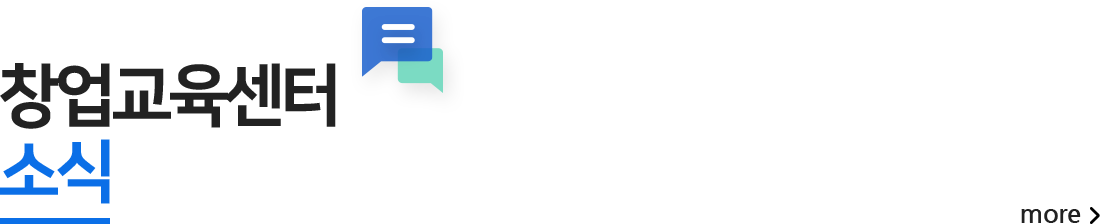
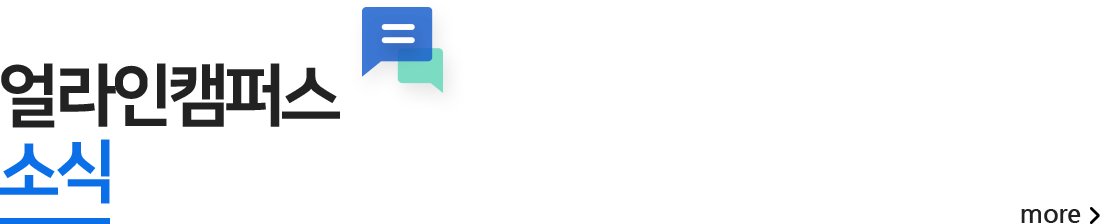
모바일 페이지 수정

Changed region(s): [[0.0, 0.2812, 0.3091, 0.5938]]

diff --git a/css/desktop.css b/css/desktop.css
@@ -598,8 +598,8 @@ input[type="range"]::-ms-fill-upper {
   background-position: center;
   background-image: url(../images/sitemap-close.png);
   background-size: cover;
-  width: 26px;
-  padding-top: calc(55 / 54 * 13px);
+  width: 15px;
+  padding-top: 14px;
   margin-top: 30px;
   margin-left: 30px;
 }
@@ -623,14 +623,15 @@ input[type="range"]::-ms-fill-upper {
 }
 
 .site-map .nav {
-  width: 370px;
+  width: 300px;
   margin: auto;
-  margin-top: 56px;
-  padding: 30px 40px;
+  margin-top: 45px;
+  padding: 30px 20px;
+  font-size: 12px;
 }
 
 .site-map .bg {
-  width: calc(100% - 400px);
+  width: calc(100% - 350px);
   background-color: #333;
   opacity: 0.3;
 }
@@ -645,8 +646,8 @@ input[type="range"]::-ms-fill-upper {
   background-position: center;
   background-repeat: no-repeat;
   background-size: cover;
-  width: calc(210px / 2);
-  height: 23px;
+  width: 93px;
+  height: 20px;
 }
 
 .site-map .nav > li:nth-child(2) > a {
@@ -654,8 +655,8 @@ input[type="range"]::-ms-fill-upper {
   background-position: center;
   background-repeat: no-repeat;
   background-size: cover;
-  width: calc(210px / 2);
-  height: 23px;
+  width: 93px;
+  height: 21px;
 }
 
 .site-map .nav > li:nth-child(3) > a {
@@ -663,8 +664,8 @@ input[type="range"]::-ms-fill-upper {
   background-position: center;
   background-repeat: no-repeat;
   background-size: cover;
-  width: calc(210px / 2);
-  height: 23px;
+  width: 92px;
+  height: 20px;
 }
 
 .site-map .nav > li:nth-child(4) > a {
@@ -672,8 +673,8 @@ input[type="range"]::-ms-fill-upper {
   background-position: center;
   background-repeat: no-repeat;
   background-size: cover;
-  width: calc(130px / 2);
-  height: 23px;
+  width: 63px;
+  height: 22px;
 }
 
 .site-map .nav > li:nth-child(5) > a {
@@ -681,8 +682,8 @@ input[type="range"]::-ms-fill-upper {
   background-position: center;
   background-repeat: no-repeat;
   background-size: cover;
-  width: calc(248px / 2);
-  height: 23px;
+  width: 123px;
+  height: 21px;
 }
 
 .site-map .nav > li > a ~ ul {
@@ -705,8 +706,8 @@ input[type="range"]::-ms-fill-upper {
   background-position: left;
   background-repeat: no-repeat;
   background-size: cover;
-  width: calc(107px / 2);
-  height: calc(107px / 2);
+  width: calc(107px / 3);
+  height: calc(107px / 3);
 }
 
 .site-map .nav > li > a ~ ul > li > a > span:nth-child(2) {
@@ -1029,6 +1030,7 @@ input[type="range"]::-ms-fill-upper {
 .notice .notice-title {
   float: left;
   width: 316px;
+  padding-right: 20px;
 }
 
 .notice .notice-title > a {
@@ -1785,7 +1787,7 @@ input[type="range"]::-ms-fill-upper {
 }
 
 .site-content .filter-list .btn-wrapper {
-  padding: 27px 20px 20px 5px;
+  padding: 27px 10px 20px 5px;
 }
 
 .site-content .filter-list .btn-wrapper .btn-reset {
@@ -1806,7 +1808,7 @@ input[type="range"]::-ms-fill-upper {
 }
 
 .site-content .filter-list .list-item {
-  padding: 23px 0px 12px 20px;
+  padding: 23px 0px 12px 10px;
 }
 
 .site-content .filter-list .list-item > li {
@@ -2527,6 +2529,8 @@ input[type="range"]::-ms-fill-upper {
   padding: 26px 0px 19px 24px;
   margin: 20px 0px;
   border-radius: 13px;
+  display: flex;
+  align-items: center;
 }
 
 .page-lec-qna .site-content .content .content-sub .sub-image {
@@ -2536,12 +2540,11 @@ input[type="range"]::-ms-fill-upper {
   background-position: center;
   width: 60px;
   height: 60px;
-  float: left;
   margin: 18px 16px;
 }
 
 .page-lec-qna .site-content .content .content-sub .sub-description {
-  line-height: 24px;
+  line-height: 25px;
   letter-spacing: -1px;
 }
 

diff --git a/css/phone.css b/css/phone.css
@@ -83,7 +83,7 @@
 }
 
 .search-period .period-marks .middle {
-  left: 127px;
+  left: 140px;
 }
 
 /* main-page */
@@ -354,6 +354,7 @@
 .lecture-detail .title-wrapper .sns-group {
   float: left;
   margin-top: 0;
+  margin-left: -5px;
 }
 
 .lecture-detail .title-wrapper .sns-group a {
@@ -779,6 +780,7 @@
   font-size: 12px;
   line-height: 22px;
   margin-right: 16px;
+  flex: 1;
 }
 
 .page-lec-qna .site-content .content form {
@@ -796,7 +798,6 @@
 }
 
 @media screen and (max-width: 400px) {
-  /* 메인 페이지 */
   .notice-content > ul > li > a {
     font-size: 12px;
   }
@@ -808,6 +809,10 @@
   .page-main .site-footer-mb address,
   .page-other .site-footer address {
     font-size: 11px;
+  }
+
+  .lecture .thumbnail .caption .info-wrapper {
+    font-size: 12px;
   }
 
   .site-map .bg {
@@ -1008,5 +1013,11 @@
 
   .page-notice-content .wrapper .content .content-menu ul > li > a {
     padding: 24px 0px;
+  }
+}
+
+@media screen and (min-width: 360px) and (-webkit-min-device-pixel-ratio: 4) {
+  .site-map .wrapper {
+    width: 250px;
   }
 }

diff --git a/notice.html b/notice.html
@@ -126,8 +126,8 @@
                       <span class="sr-only">공지</span>
                     </span>
                     <span class="subject">
-                      [알림] 창업교육센터 온라인교육 플랫폼의 신규 컨텐츠가
-                      업데이트 되었습니다.
+                      [알림] 얼라인캠퍼스 공유형온라인창업 교육플랫폼 플랫폼의
+                      신규 컨텐츠가 업데이트 되었습니다.
                     </span>
                   </div>
                   <div class="last">
@@ -143,7 +143,7 @@
                       <span class="sr-only">공지</span>
                     </span>
                     <span class="subject">
-                      2021년 창업교육센터 홈페이지 서비스 만족도 조사 실시
+                      2021년 얼라인캠퍼스 홈페이지 서비스 만족도 조사 실시
                     </span>
                   </div>
                   <div class="last">

diff --git a/lec-qna.html b/lec-qna.html
@@ -117,14 +117,13 @@
             <div class="page-title"></div>
           </div>
           <div class="content row">
-            <div class="content-sub row clearfix">
+            <div class="content-sub row">
               <div class="sub-image"></div>
               <div class="sub-description">
                 <p>
                   강좌에 대한 다양한 의견을 공유하는 공간입니다.<br />
                   궁금하신 사항이나 바라는 점이 있으시면 문의해주시면 바로 답변
-                  드리겠습니다.<br />
-                  보다 나은 서비스를 위해 노력하겠습니다.<br />
+                  드리겠습니다. 보다 나은 서비스를 위해 노력하겠습니다.<br />
                   문의하신 내용은
                   <a href="./preparing-page.html">마이페이지</a>에서 확인
                   가능합니다.<br />

diff --git a/lecturelist.html b/lecturelist.html
@@ -143,7 +143,7 @@
           </div>
           <div class="lecture row">
             <div class="item-list row">
-              <div class="item col-lg-4 col-md-6 col-sm-12 col-xs-12">
+              <div class="item col-sm-12 col-lg-6 col-md-6 col-xs-12">
                 <a href="./lecture-not-auth.html">
                   <div class="thumbnail">
                     <div
@@ -155,7 +155,7 @@
                     <div class="caption">
                       <div class="title-wrapper">
                         <h3 class="title">공공기술 기획형 창업지원</h3>
-                        <p class="description gothic">
+                        <p class="description">
                           잠재력이 높은 전국의 학생 창업팀 300개를 선발하여,
                           성숙도에 따른 체계적 교육멘토링을 통해 스타트업으로
                           성장

diff --git a/notice-content.html b/notice-content.html
@@ -419,6 +419,15 @@
         </div>
         <div class="bg"></div>
       </div>
+      <div class="search-pop">
+        <div>
+          <span class="search-icon"></span>
+          <span>강좌<br />찾기</span>
+        </div>
+        <div>
+          <span class="pop-icon"></span>
+        </div>
+      </div>
       <div class="side-left">
         <button class="btn btn-link sitemap-open">
           <span class="sr-only">전체 메뉴</span>
